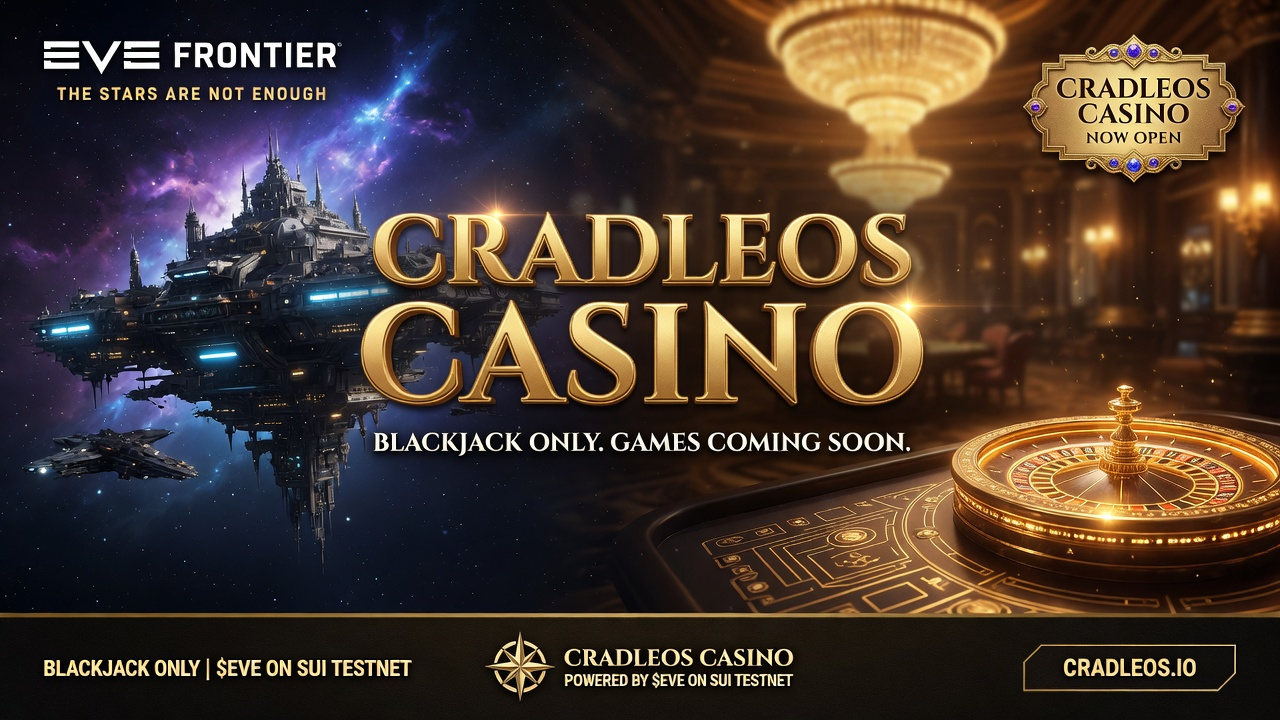
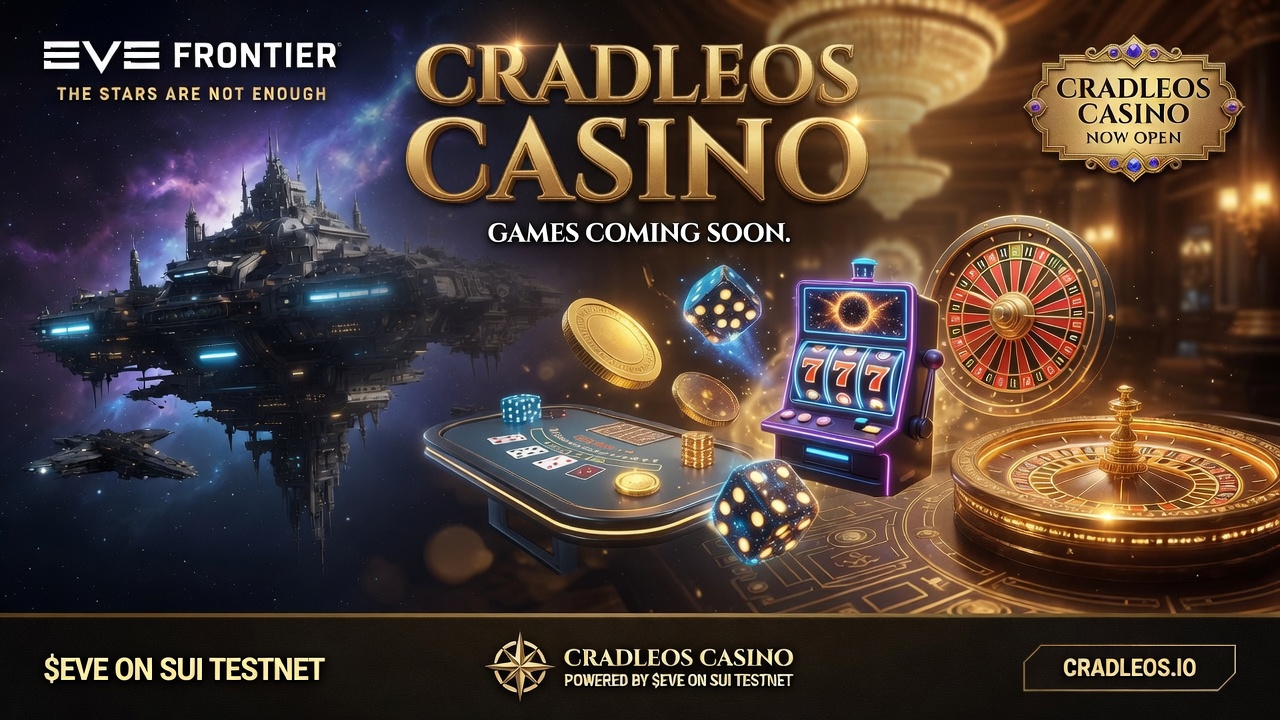
feat(seo): new casino OG image (Cradleos Casino key art), cache-bust v3

diff --git a/cradleos-dapp/index.html b/cradleos-dapp/index.html
@@ -17,7 +17,7 @@
     <meta property="og:site_name" content="CradleOS" />
     <meta property="og:title" content="CradleOS Casino — Now Open" />
     <meta property="og:description" content="Provably-fair on-chain blackjack settled in $EVE · Sui testnet. Blackjack only — games coming soon. Plus tribe economy, intel, and defense tooling for EVE Frontier." />
-    <meta property="og:image" content="https://cradleos.io/og-casino.png?v=2" />
+    <meta property="og:image" content="https://cradleos.io/og-casino.png?v=3" />
     <meta property="og:image:alt" content="CradleOS Casino — Now Open. Blackjack only, games coming soon. Powered by $EVE on Sui testnet." />
     <meta property="og:image:width" content="1280" />
     <meta property="og:image:height" content="720" />
@@ -25,7 +25,7 @@
     <meta name="twitter:card" content="summary_large_image" />
     <meta name="twitter:title" content="CradleOS Casino — Now Open" />
     <meta name="twitter:description" content="Provably-fair on-chain blackjack settled in $EVE · Sui testnet." />
-    <meta name="twitter:image" content="https://cradleos.io/og-casino.png?v=2" />
+    <meta name="twitter:image" content="https://cradleos.io/og-casino.png?v=3" />
     <meta name="robots" content="index, follow" />
   </head>
   <body>